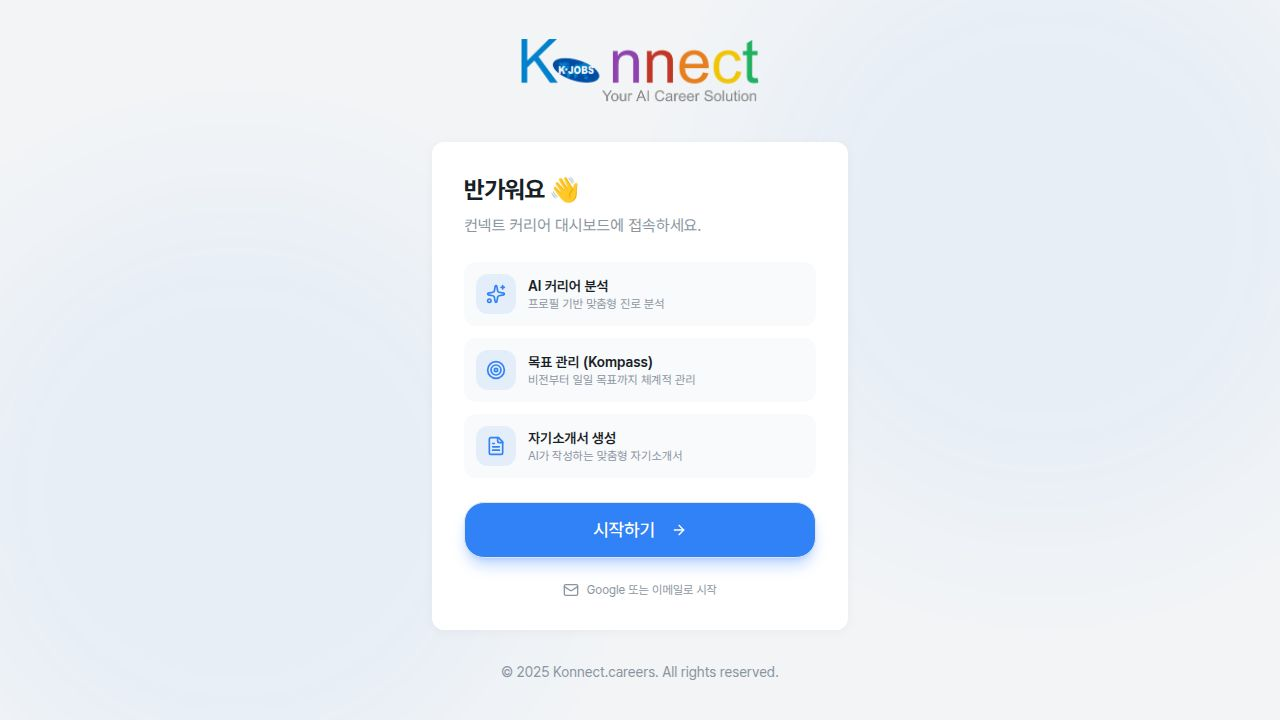
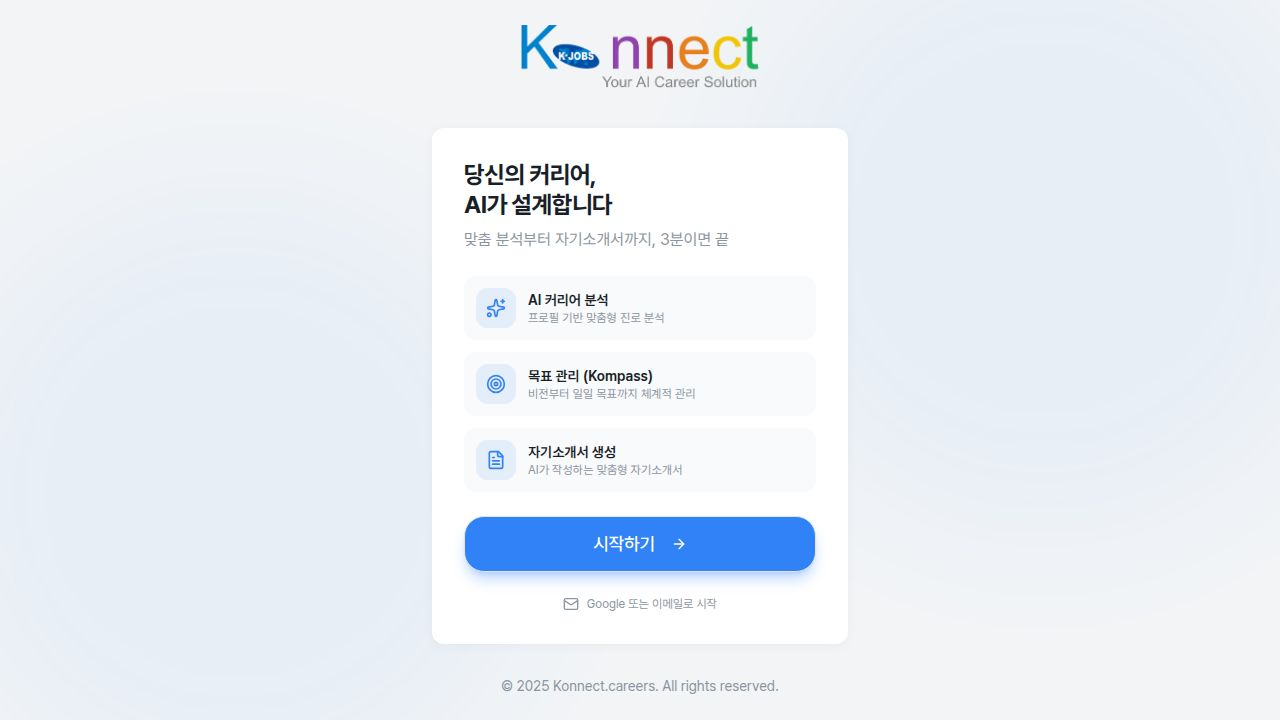
Update landing page introduction to be more compelling and action-oriented
Refactors the landing page's introductory text in `Landing.tsx` to be more engaging and persuasive, aligning with user-requested improvements for capturing attention, highlighting benefits, and driving action.

Replit-Commit-Author: Agent
Replit-Commit-Session-Id: 3c2c2e78-bdef-4a8d-8af2-ae95bce19a52
Replit-Commit-Checkpoint-Type: full_checkpoint
Replit-Commit-Event-Id: a555c134-dbcd-498d-ac8d-3e0cdf09127e
Replit-Commit-Screenshot-Url: https://storage.googleapis.com/screenshot-production-us-central1/a0651719-f4de-4ca3-be73-f7bfee96fc6b/3c2c2e78-bdef-4a8d-8af2-ae95bce19a52/tyDRCYZ
Replit-Helium-Checkpoint-Created: true

diff --git a/client/src/pages/Landing.tsx b/client/src/pages/Landing.tsx
@@ -83,10 +83,12 @@ export default function Landing() {
 
         <Card className="toss-card border-none shadow-[0_8px_30px_rgba(0,0,0,0.08)] rounded-[24px] overflow-hidden">
           <CardHeader className="space-y-2 pt-8 px-8">
-            <CardTitle className="text-2xl font-bold text-[#191F28]">
-              반가워요 👋
+            <CardTitle className="text-2xl font-bold text-[#191F28] leading-tight">
+              당신의 커리어,<br />AI가 설계합니다
             </CardTitle>
-            <CardDescription className="text-[#8B95A1] text-base">컨넥트 커리어 대시보드에 접속하세요.</CardDescription>
+            <CardDescription className="text-[#8B95A1] text-base">
+              맞춤 분석부터 자기소개서까지, 3분이면 끝
+            </CardDescription>
           </CardHeader>
           <CardContent className="space-y-6 px-8 pb-8">
             <div className="space-y-3">
